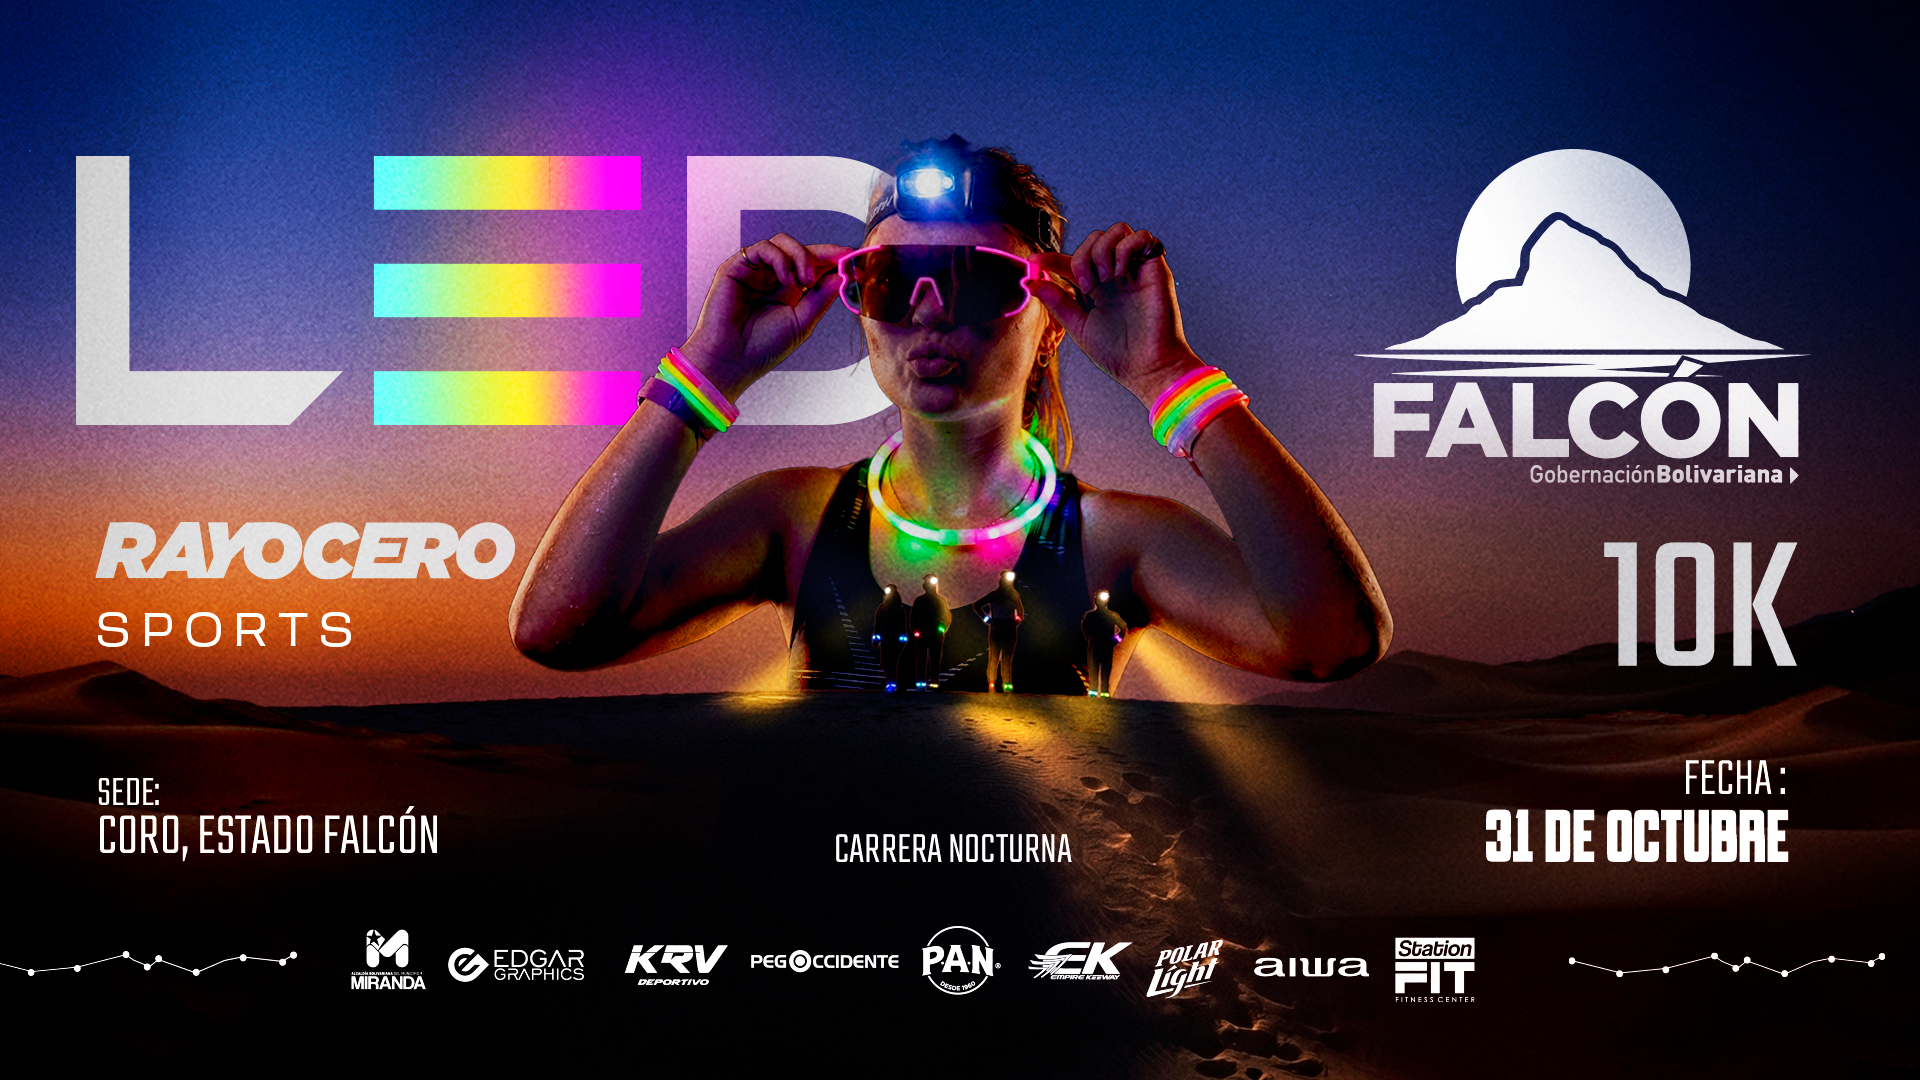
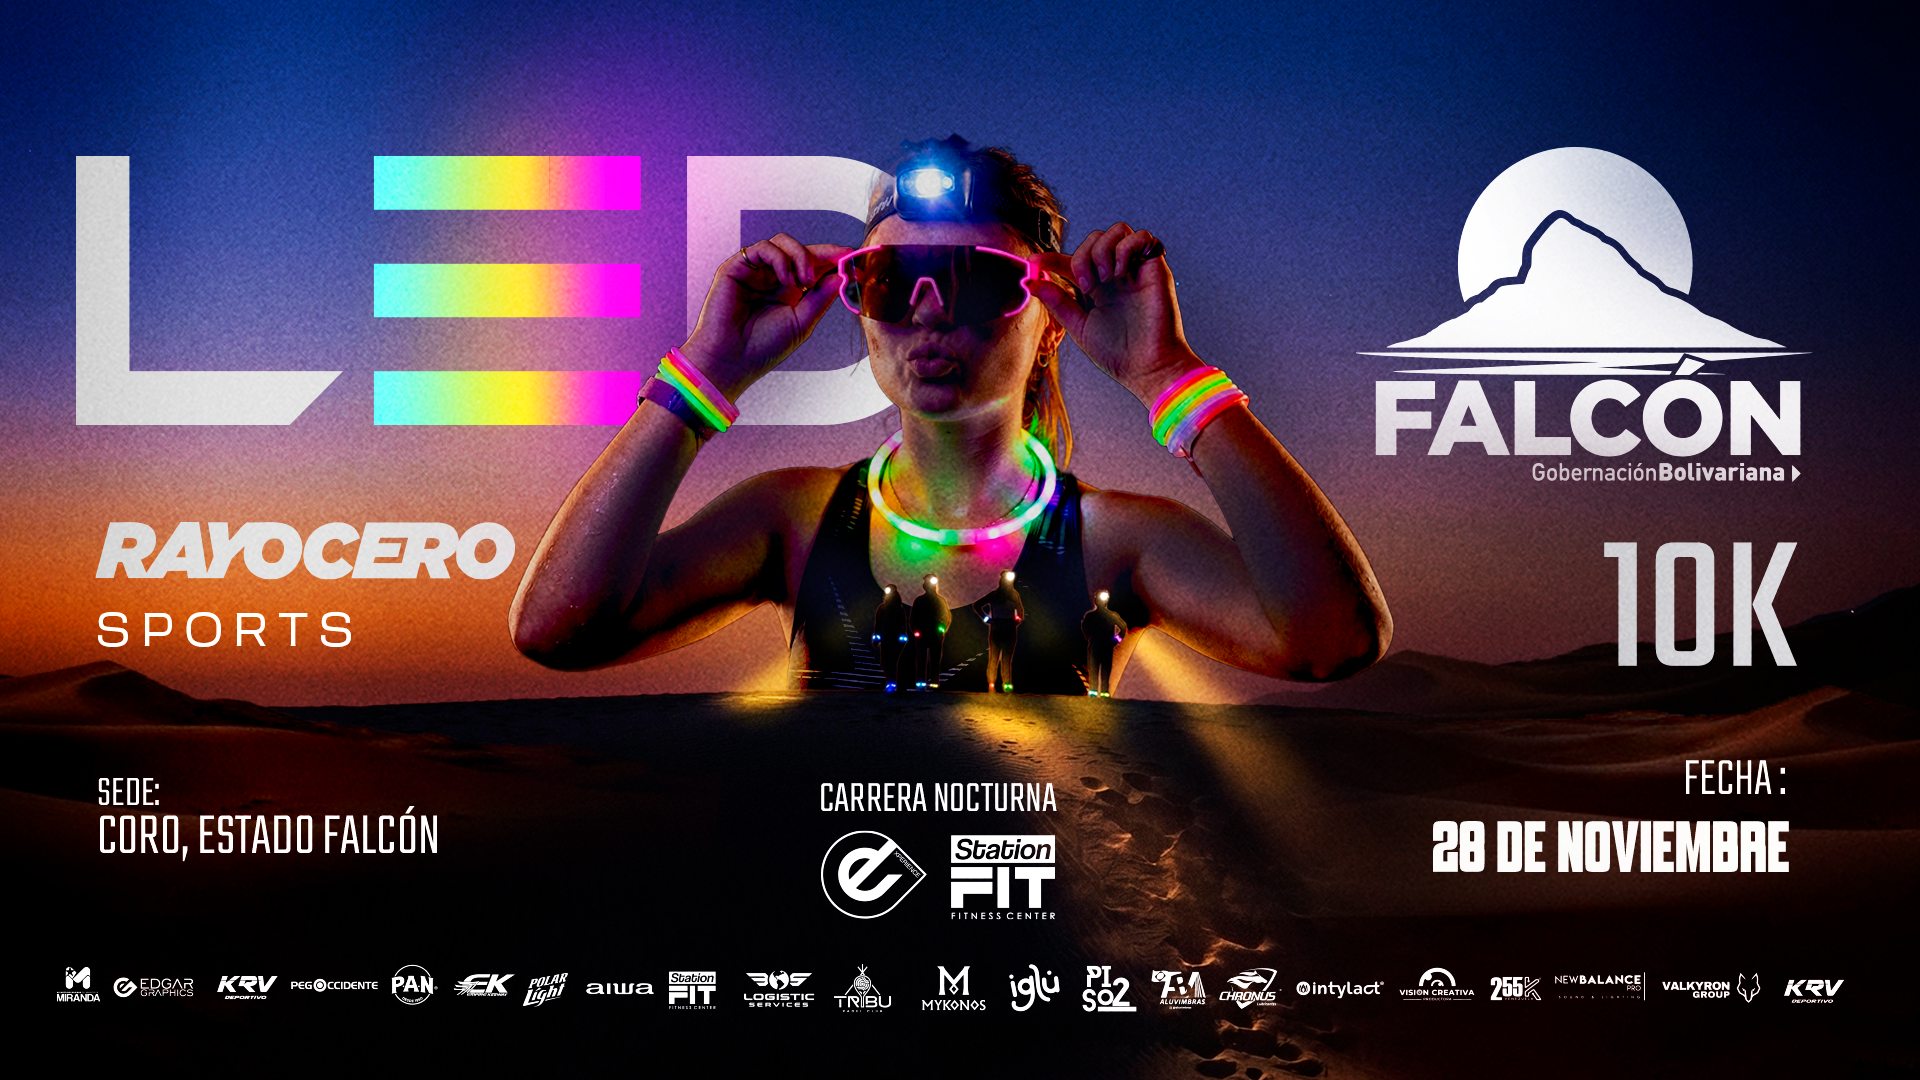
fix

diff --git a/src/components/HeroSection.tsx b/src/components/HeroSection.tsx
@@ -34,7 +34,7 @@ const HERO_SLIDES = [
   {
     src        : ledRunHero,
     alt        : "WE RUN LED 10K 5k — Carrera Nocturna Coro Falcón",
-    fecha      : "31.10.26",
+    fecha      : "28.11.26",
     fechaColor : `linear-gradient(105deg,
       #ffffff        0%,
       ${LED_CYAN}    18%,
@@ -45,8 +45,8 @@ const HERO_SLIDES = [
   },
   {
     src        : caminataHero,
-    alt        : "Caminata Recreativa — Rayocero Coro Falcón",
-    fecha      : "31.10.26",
+    alt        : "Caminata Recreativa — Rayocero Barquisimeto",
+    fecha      : "18.10.26",
     fechaColor : `linear-gradient(105deg,
       ${LED_GREEN}  0%,
       #a8ff78       40%,
@@ -188,7 +188,7 @@ const SliderDots = ({ activeIndex, setActiveIndex, className = "", style }: Slid
 // ─── MARQUEE ─────────────────────────────────────────────────────────────────
 const MARQUEE_ITEMS = [
   "WE RUN LED", "5K","10K", "CORO · FALCÓN",
-  "CARRERA NOCTURNA", "31 DE OCTUBRE",
+  "CARRERA NOCTURNA", "28 DE NOVIEMBRE",
   "RAYOCERO", "INSCRIPCIONES ABIERTAS",
 ];
 
@@ -487,7 +487,7 @@ const HeroSection = () => {
             className="text-[9px] font-black tracking-[0.5em] uppercase"
             style={{ color: "rgba(255,255,255,0.22)" }}
           >
-            Coro · 10K · 31 Oct · Falcón · Venezuela
+            Coro · 10K · 28 Nov · Falcón · Venezuela
           </span>
         </motion.div>
 

diff --git a/src/components/RegistrationForm.tsx b/src/components/RegistrationForm.tsx
@@ -365,7 +365,7 @@ const LED_CORO_CONFIG: RaceStaticConfig = {
   tipo: "carrera",
   modalidadesDisponibles: ["10K", "5K"], // [V37.4-1] antes: ["10K"]
   evento: {
-    nombre: "WE RUN RAYOCERO LED CORO 10K", fecha: "31 OCT 2026", hora: "07:00 PM",
+    nombre: "WE RUN RAYOCERO LED CORO 10K", fecha: "28 NOV 2026", hora: "07:00 PM",
     distancia: "10K / 5K", // [V37.4-1] antes: "10K"
     atletas: "+500", lugar: "CORO, FALCÓN",
     proximaEd: "TEMPORADA 2026", targetDate: new Date("2026-10-31T19:00:00"),

diff --git a/src/pages/DorsalLed.tsx b/src/pages/DorsalLed.tsx
@@ -79,7 +79,7 @@ const FONT_HREF =
 const FONT_WAIT_MS = 1200;
 
 const LED_EVENT = {
-  fecha: "31 OCT 2026",
+  fecha: "28 NOV 2026",
   hora:  "07:00 PM",
   lugar: "Coro, Falcón",
 } as const;
